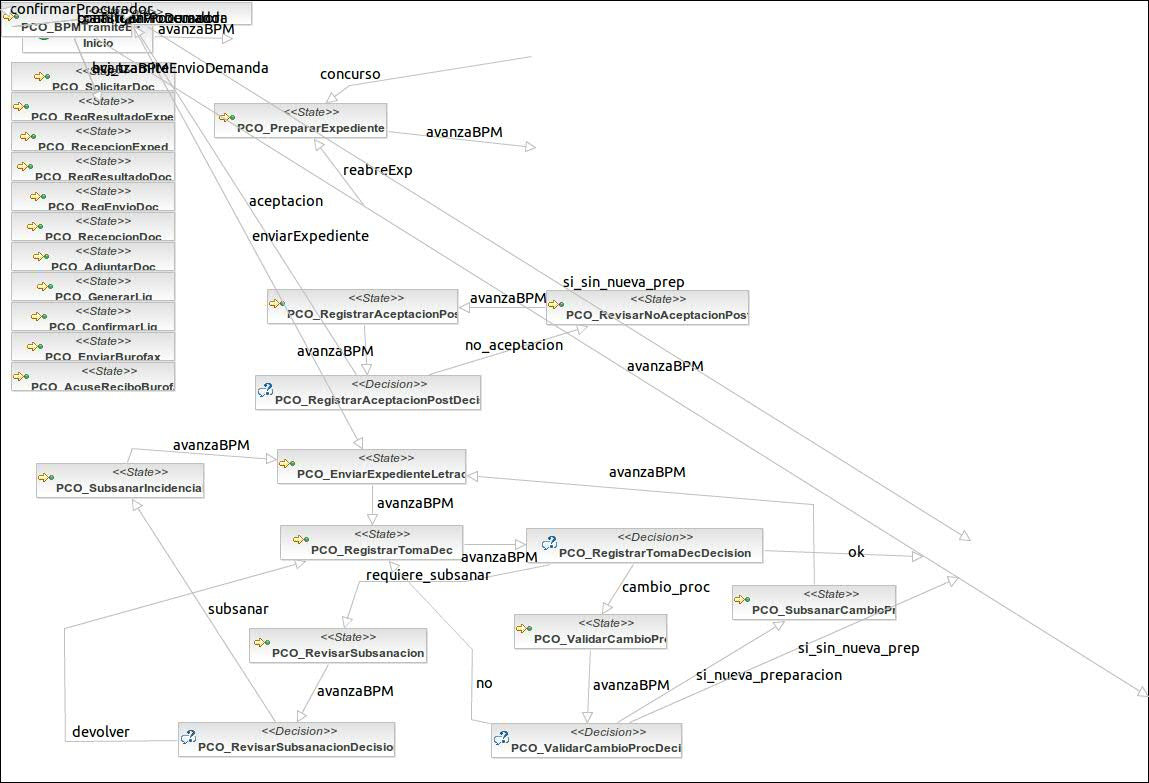
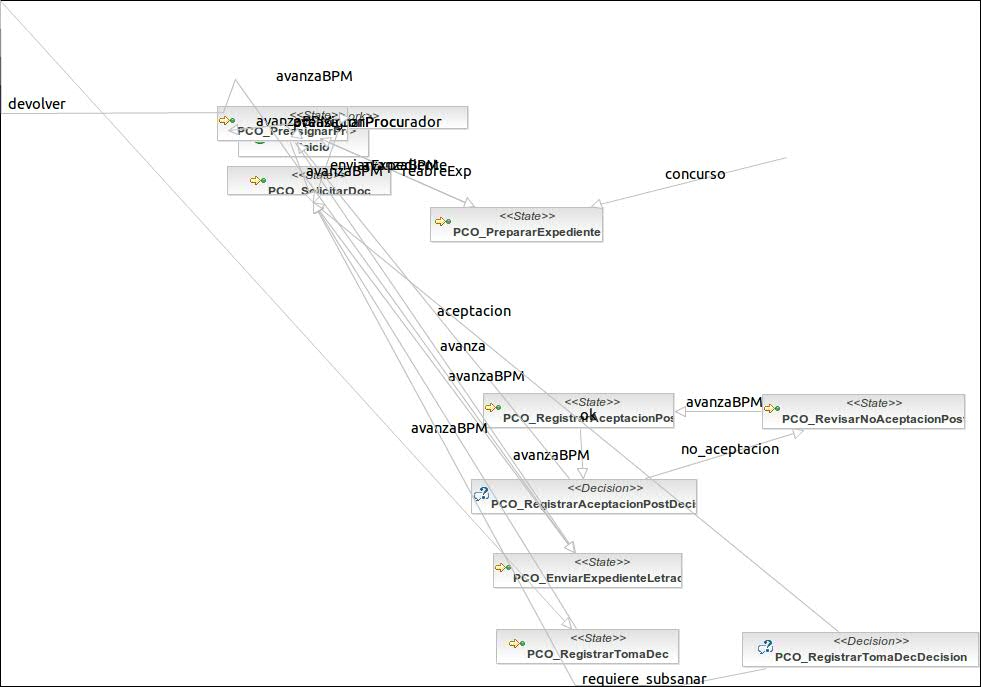
PRODUCTO-865 Modificar T. precontensioso en bas a gestores de procuradores
Former-commit-id: 38b7e69f04d1dc79e83059d0fb81e46b67817d19

diff --git a/recovery-precontencioso-plugin/src/main/java/es/pfsgroup/plugin/precontencioso/handler/PrecontenciosoGestorProcuradorHandler.java b/recovery-precontencioso-plugin/src/main/java/es/pfsgroup/plugin/precontencioso/handler/PrecontenciosoGestorProcuradorHandler.java
@@ -1,0 +1,41 @@
+package es.pfsgroup.plugin.precontencioso.handler;
+
+
+import org.jbpm.graph.exe.ExecutionContext;
+import org.springframework.beans.factory.annotation.Autowired;
+
+import es.capgemini.pfs.asunto.EXTAsuntoManager;
+import es.capgemini.pfs.asunto.model.Procedimiento;
+import es.pfsgroup.commons.utils.Checks;
+import es.pfsgroup.plugin.recovery.coreextension.api.CoreProjectContext;
+import es.pfsgroup.procedimientos.PROBaseActionHandler;
+
+public class PrecontenciosoGestorProcuradorHandler extends PROBaseActionHandler {
+
+	/**
+	 * 
+	 */
+	private static final long serialVersionUID = 1L;
+	
+	@Autowired
+	private EXTAsuntoManager extAsuntoManager;
+	
+	@Autowired
+	private CoreProjectContext coreProjectContext;
+
+	@Override
+	public void run(ExecutionContext executionContext) throws Exception {
+		Procedimiento prc = getProcedimiento(executionContext);
+		if(!Checks.esNulo(prc.getAsunto())){
+			if(extAsuntoManager.tieneActorEnAsunto(prc.getAsunto().getId(), coreProjectContext.getTiposGestoresDeProcuradores())){	
+				executionContext.getToken().signal("avanzaConProcu");
+			}else{
+				executionContext.getToken().signal("avanza");
+			}
+		}else{
+			executionContext.getToken().signal("avanza");
+		}
+		
+	}
+
+}

diff --git a/recovery-coreextension-plugin/src/main/java/es/pfsgroup/plugin/recovery/coreextension/api/CoreProjectContextImpl.java b/recovery-coreextension-plugin/src/main/java/es/pfsgroup/plugin/recovery/coreextension/api/CoreProjectContextImpl.java
@@ -16,6 +16,7 @@ public class CoreProjectContextImpl implements CoreProjectContext {
 	private List<String> codigosDocumentosConFechaCaducidad;
 	private Set<String> tipoGestorLetrado;
 	private Map<String, String> tipoSupervisorProrroga;
+	private Set<String> tiposGestoresDeProcuradores;
 	
 	public CoreProjectContextImpl() {
 		entidadesDesparalizacion = new HashSet<String>();
@@ -105,5 +106,13 @@ public class CoreProjectContextImpl implements CoreProjectContext {
 	
 	public void setTipoSupervisorProrroga(Map<String, String>tipoSupervisorProrroga) {
 		this.tipoSupervisorProrroga = tipoSupervisorProrroga;
+	}
+
+	public Set<String> getTiposGestoresDeProcuradores() {
+		return tiposGestoresDeProcuradores;
+	}
+
+	public void setTiposGestoresDeProcuradores(Set<String> tiposGestoresDeProcuradores) {
+		this.tiposGestoresDeProcuradores = tiposGestoresDeProcuradores;
 	}
 }

diff --git a/recovery-coreextension-plugin/src/main/java/es/capgemini/pfs/asunto/EXTAsuntoManager.java b/recovery-coreextension-plugin/src/main/java/es/capgemini/pfs/asunto/EXTAsuntoManager.java
@@ -2047,6 +2047,19 @@ public class EXTAsuntoManager extends BusinessOperationOverrider<AsuntoApi> impl
 		}
 		return false;
 	}
+	
+
+	public boolean tieneActorEnAsunto(Long id, Set<String> listadoGestores) {
+		List<EXTGestorAdicionalAsunto> gestores = getGestoresAdicionalesAsunto(id);
+		if(!gestores.isEmpty()){
+			for(EXTGestorAdicionalAsunto gestor : gestores){
+				if(gestor != null && gestor.getTipoGestor() != null && listadoGestores.contains(gestor.getTipoGestor().getCodigo())){
+					return true;
+				}
+			}
+		}
+		return false;
+	}
 
 }
 

diff --git a/recovery-coreextension-plugin/src/main/java/es/pfsgroup/plugin/recovery/coreextension/api/CoreProjectContext.java b/recovery-coreextension-plugin/src/main/java/es/pfsgroup/plugin/recovery/coreextension/api/CoreProjectContext.java
@@ -34,4 +34,6 @@ public interface CoreProjectContext {
 	public Set<String> getTipoGestorLetrado();
 	
 	public Map<String, String> getTipoSupervisorProrroga();
+	
+	Set<String> getTiposGestoresDeProcuradores();
 }
